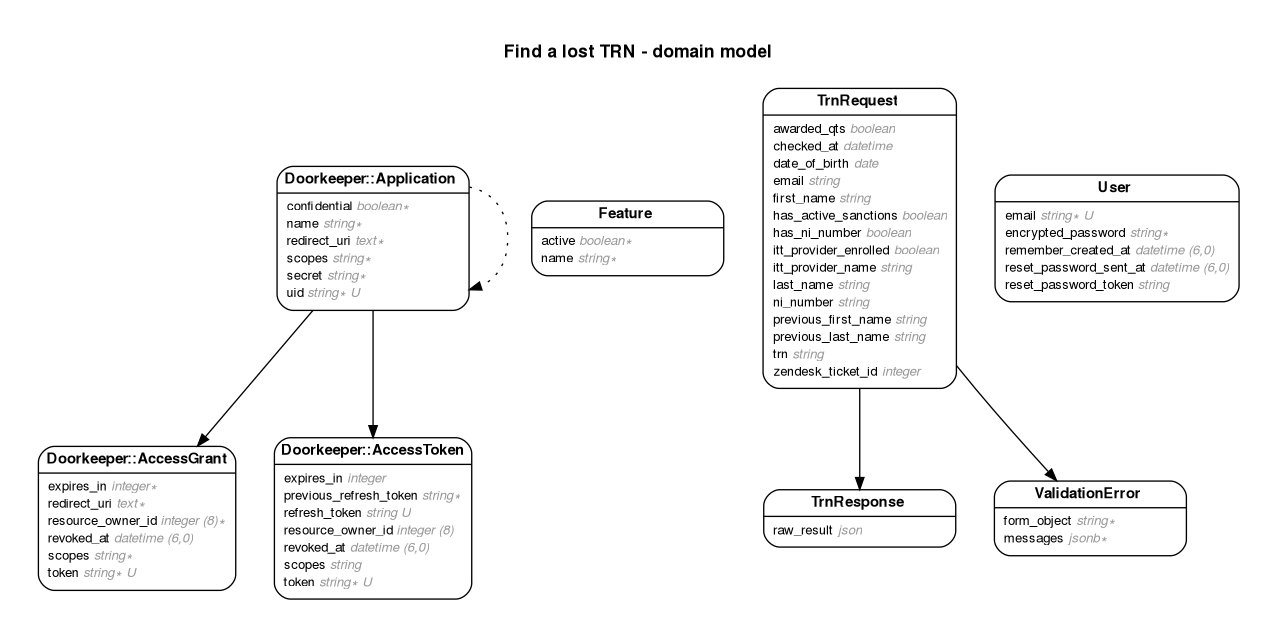
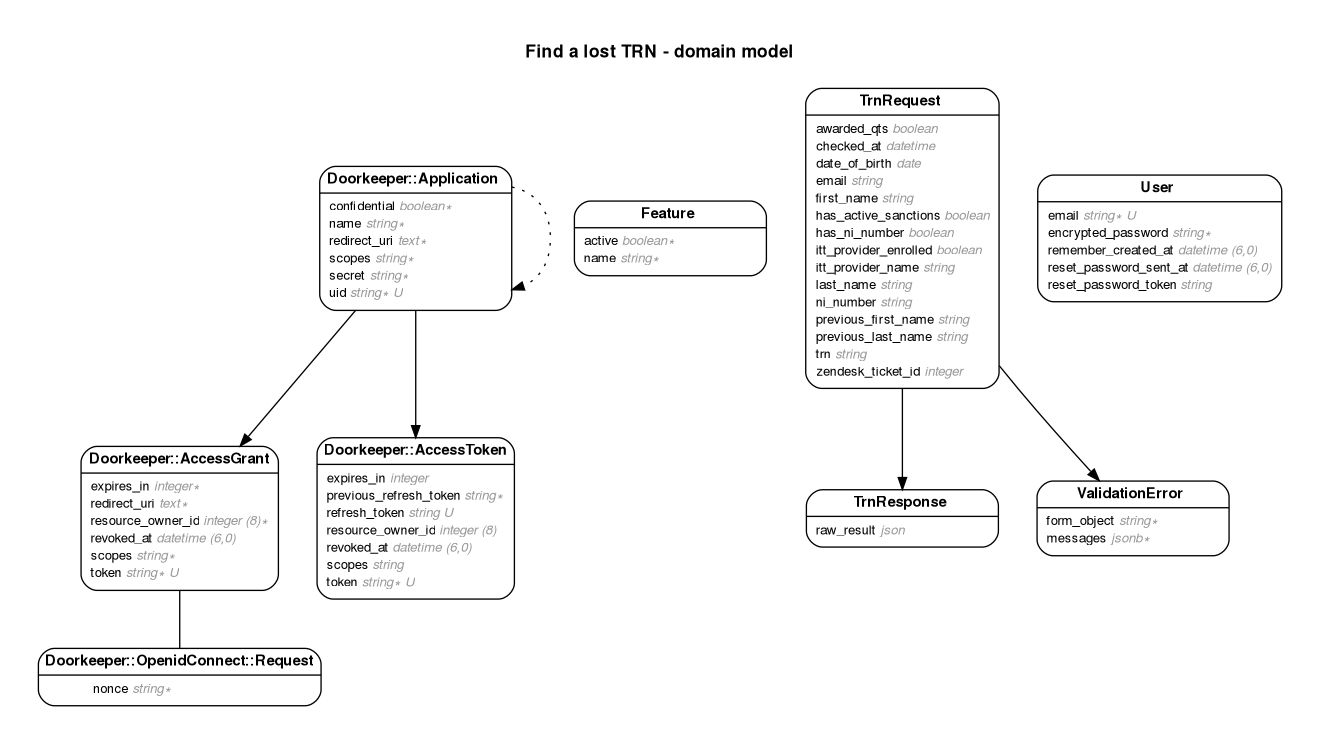
Run rails db:migrate

Changed region(s): [[0.2138, 0.0893, 0.9773, 0.8934], [0.0305, 0.5361, 0.397, 0.953], [0.397, 0.0596, 0.6108, 0.0893]]

diff --git a/db/schema.rb b/db/schema.rb
@@ -10,7 +10,7 @@
 #
 # It's strongly recommended that you check this file into your version control system.
 
-ActiveRecord::Schema[7.0].define(version: 2022_07_11_162034) do
+ActiveRecord::Schema[7.0].define(version: 2022_07_11_162516) do
   # These are extensions that must be enabled in order to support this database
   enable_extension "plpgsql"
 
@@ -62,6 +62,12 @@ ActiveRecord::Schema[7.0].define(version: 2022_07_11_162034) do
     t.datetime "created_at", null: false
     t.datetime "updated_at", null: false
     t.index ["uid"], name: "index_oauth_applications_on_uid", unique: true
+  end
+
+  create_table "oauth_openid_requests", force: :cascade do |t|
+    t.bigint "access_grant_id", null: false
+    t.string "nonce", null: false
+    t.index ["access_grant_id"], name: "index_oauth_openid_requests_on_access_grant_id"
   end
 
   create_table "trn_requests", force: :cascade do |t|
@@ -118,6 +124,7 @@ ActiveRecord::Schema[7.0].define(version: 2022_07_11_162034) do
   add_foreign_key "oauth_access_grants", "users", column: "resource_owner_id"
   add_foreign_key "oauth_access_tokens", "oauth_applications", column: "application_id"
   add_foreign_key "oauth_access_tokens", "users", column: "resource_owner_id"
+  add_foreign_key "oauth_openid_requests", "oauth_access_grants", column: "access_grant_id", on_delete: :cascade
   add_foreign_key "trn_responses", "trn_requests"
   add_foreign_key "validation_errors", "trn_requests"
 end
